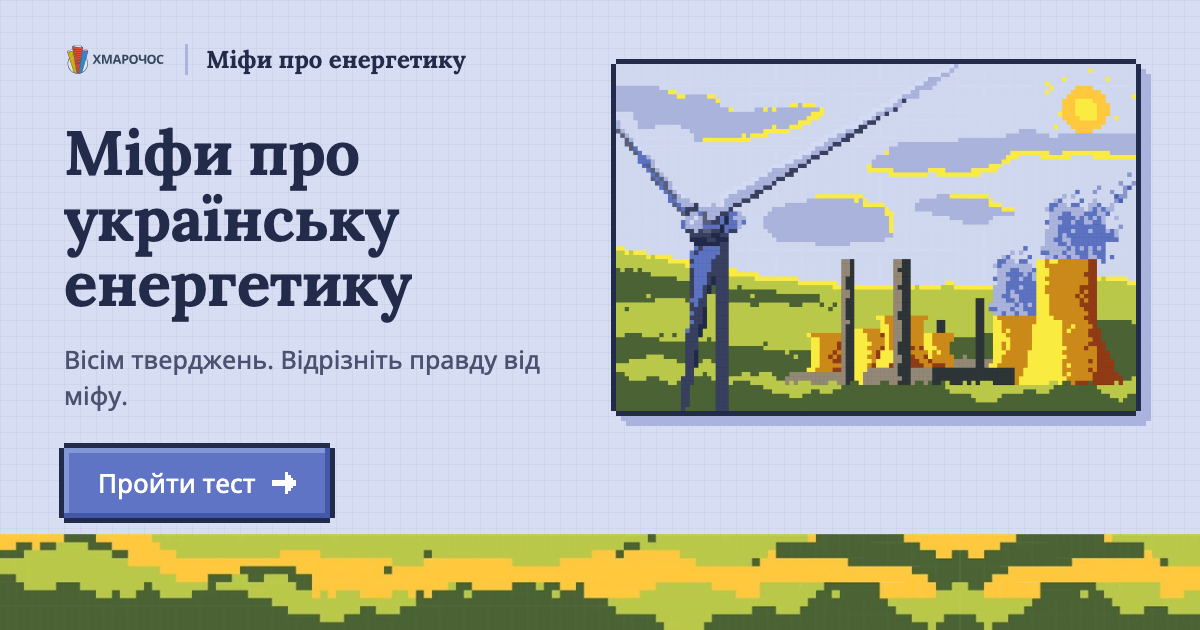
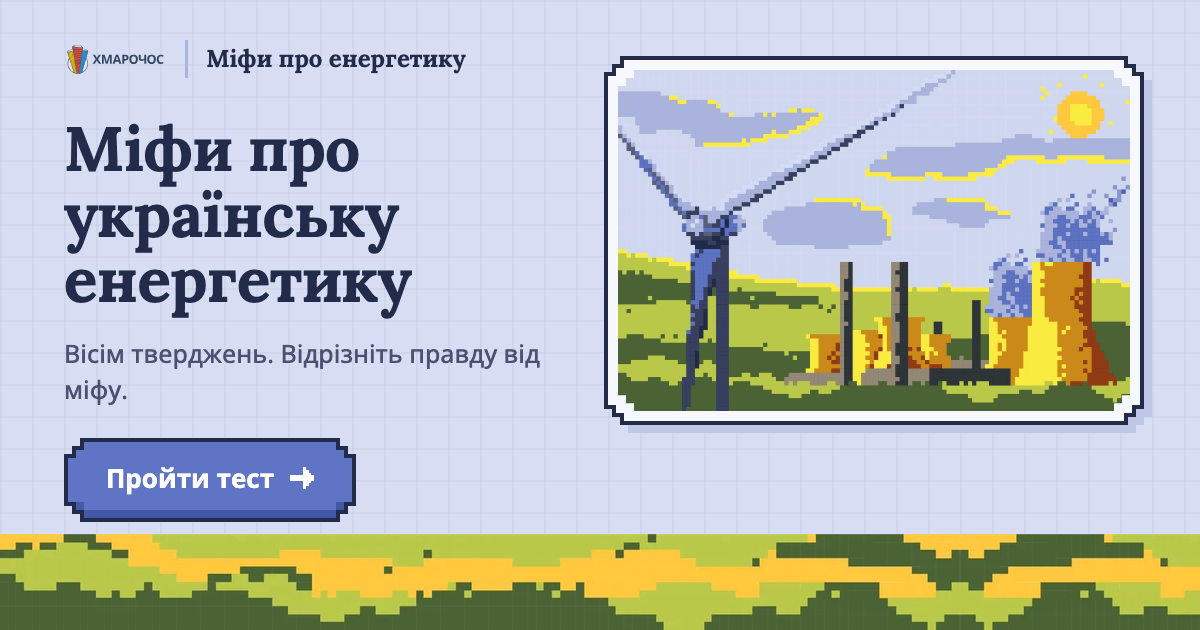
OG-картинки в новому піксельному стилі: рамки сайту, лампочка на шнурі; OG_VERSION 2

diff --git a/og-src/og.html b/og-src/og.html
@@ -5,89 +5,104 @@
 <title>OG</title>
 <!-- OG 1200×630 у стилі «Піксель». Рендерить scripts/render-og.mjs:
      og.html → public/og-test.png (назва ліворуч, обкладинка праворуч);
-     og.html?l=<slug> → public/og-<slug>.png (батарейка, бали й звання ліворуч, ілюстрація рівня праворуч). -->
+     og.html?l=<slug> → public/og-<slug>.png (картка з батарейкою, балами й званням, ілюстрація рівня праворуч).
+     Рамки, палітра й батарейка беруться прямо з pixel.css сайту, тож OG не розходиться з тестом.
+     Масштаб пікселя тут ×2: OG показують дрібно, сходинки мають читатися. -->
+<link rel="stylesheet" href="../app/skins/pixel/pixel.css">
 <style>
 @font-face { font-family: "Open Sans"; src: url("../public/fonts/hm/open-sans-v29-latin_cyrillic-ext-500.woff2") format("woff2"); font-weight: 500; }
+@font-face { font-family: "Open Sans"; src: url("../public/fonts/hm/open-sans-v29-latin_cyrillic-ext-700.woff2") format("woff2"); font-weight: 700; }
 @font-face { font-family: "Lora"; src: url("../public/fonts/hm/lora-v24-latin_cyrillic-ext-700.woff2") format("woff2"); font-weight: 700; }
-:root {
-  --sky: #d7ddf2; --cloud: #aab3dd; --blue: #5f74c4; --blue-d: #4458a8; --blue-l: #8396d6;
-  --navy: #232b4a; --slate: #3a3f5c; --card: #f7f8fd; --ink-2: #4b5170;
-  --yellow: #f8e840; --orange: #cc8619; --rust-l: #b5531f; --b: 5px;
-}
+@font-face { font-family: "Pixelify Sans"; src: url("../public/fonts/px/pixelify-cyrillic.woff2") format("woff2"); font-weight: 400 700; unicode-range: U+0400-045F, U+0490-0491; }
+@font-face { font-family: "Pixelify Sans"; src: url("../public/fonts/px/pixelify-latin.woff2") format("woff2"); font-weight: 400 700; unicode-range: U+0000-00FF, U+2013-2014; }
 * { box-sizing: border-box; }
-body {
-  margin: 0; width: 1200px; height: 630px; overflow: hidden; position: relative;
-  color: var(--navy); font-family: "Open Sans", sans-serif;
-  background-color: var(--sky);
-  background-image: linear-gradient(rgba(35,43,74,.04) 1px, transparent 1px), linear-gradient(90deg, rgba(35,43,74,.04) 1px, transparent 1px);
-  background-size: 16px 16px;
+body.pixel {
+  display: block; margin: 0; width: 1200px; height: 630px; min-height: 0; overflow: hidden; position: relative;
+  font-family: "Open Sans", sans-serif;
+  background-image: linear-gradient(rgba(35,43,74,.04) 2px, transparent 2px), linear-gradient(90deg, rgba(35,43,74,.04) 2px, transparent 2px);
+  background-size: 32px 32px;
 }
-.px { box-shadow: 0 calc(-1*var(--b)) 0 0 var(--navy), 0 var(--b) 0 0 var(--navy), calc(-1*var(--b)) 0 0 0 var(--navy), var(--b) 0 0 0 var(--navy); }
-.hills { position: absolute; left: 0; right: 0; bottom: 0; height: 96px; background: url("../public/art/hills-day.webp") repeat-x left bottom / auto 100%; }
-body.night .hills { background-image: url("../public/art/hills-night.webp"); }
-.head { position: absolute; left: 64px; top: 40px; display: flex; align-items: center; gap: 18px; }
-.head img { height: 38px; }
-.head b { padding-left: 18px; border-left: 3px solid var(--cloud); font-family: "Lora", serif; font-size: 24px; }
+/* картка: кадр ×2 і тінь на 8 px — як .panel на сайті */
+.og-card { position: relative; isolation: isolate; border: 20px solid transparent; }
+.og-card::before, .og-card::after { content: ""; position: absolute; inset: -20px; border: 20px solid transparent; pointer-events: none; }
+.og-card::before { z-index: -1; border-image: var(--fr-card) 10 fill / 20px; }
+.og-card::after { z-index: -2; transform: translate(8px, 8px); border-image: var(--fr-shade) 10 fill / 20px; }
+
+.og-hills { position: absolute; left: 0; right: 0; bottom: 0; height: 96px; background: url("../public/art/hills-day.webp") repeat-x left bottom / auto 100%; image-rendering: pixelated; }
+body.night .og-hills { background-image: url("../public/art/hills-night.webp"); }
+.og-head { position: absolute; left: 64px; top: 40px; display: flex; align-items: center; gap: 18px; }
+.og-head img { height: 38px; }
+.og-head b { padding-left: 18px; border-left: 3px solid var(--cloud); font-family: "Lora", serif; font-size: 24px; }
 
 /* старт */
-.start .text { position: absolute; left: 64px; top: 120px; width: 520px; }
+.og-start .og-text { position: absolute; left: 64px; top: 116px; width: 520px; }
 h1 { margin: 0; font-family: "Lora", serif; font-weight: 700; font-size: 62px; line-height: 1.06; letter-spacing: -0.01em; }
-.lead { margin: 24px 0 0; font-size: 25px; line-height: 1.45; color: var(--ink-2); }
-.btn { display: inline-flex; align-items: center; gap: 16px; margin-top: 34px; height: 70px; padding: 0 34px; font-weight: 500; font-size: 26px; color: #fff; background: var(--blue);
-  box-shadow: 0 calc(-1*var(--b)) 0 0 var(--navy), 0 var(--b) 0 0 var(--navy), calc(-1*var(--b)) 0 0 0 var(--navy), var(--b) 0 0 0 var(--navy), inset -5px -5px 0 0 var(--blue-d), inset 5px 5px 0 0 var(--blue-l); }
-.cover { position: absolute; right: 64px; top: 64px; width: 520px; filter: drop-shadow(10px 10px 0 var(--cloud)); }
-.cover img { display: block; width: 100%; aspect-ratio: 3 / 2; object-fit: cover; }
+.og-lead { margin: 22px 0 0; font-size: 25px; line-height: 1.45; color: var(--ink-2); }
+.og-go { display: inline-flex; align-items: center; gap: 16px; margin-top: 30px; height: 84px; padding: 0 22px 4px;
+  border: 20px solid transparent; border-image: var(--fr-blue) 10 fill / 20px; font-weight: 700; font-size: 26px; color: #fff; }
+.og-cover { position: absolute; right: 56px; top: 56px; width: 540px; }
+.og-cover .og-card { padding: 0; }
+.og-cover img { display: block; width: 100%; aspect-ratio: 3 / 2; object-fit: cover; margin: -6px; width: calc(100% + 12px);
+  clip-path: polygon(0 16px, 8px 16px, 8px 8px, 16px 8px, 16px 0, calc(100% - 16px) 0, calc(100% - 16px) 8px, calc(100% - 8px) 8px, calc(100% - 8px) 16px, 100% 16px,
+    100% calc(100% - 16px), calc(100% - 8px) calc(100% - 16px), calc(100% - 8px) calc(100% - 8px), calc(100% - 16px) calc(100% - 8px), calc(100% - 16px) 100%,
+    16px 100%, 16px calc(100% - 8px), 8px calc(100% - 8px), 8px calc(100% - 16px), 0 calc(100% - 16px)); }
 
 /* рівень */
-.lvl { display: none; }
-body.level .start { display: none; }
-body.level .lvl { display: block; }
-.lvl .text { position: absolute; left: 64px; top: 128px; width: 640px; }
-.kicker { margin: 0; font-size: 24px; color: var(--ink-2); }
-.charge { display: flex; align-items: center; gap: 26px; margin-top: 30px; }
-.battery { display: flex; align-items: center; }
-.cells { display: flex; gap: 6px; padding: 7px; background: var(--navy); }
-.cell { width: 30px; height: 56px; background: var(--slate); }
-.cell.ok { background: var(--yellow); }
-.nub { width: 10px; height: 24px; background: var(--navy); }
-.range { font-family: "Lora", serif; font-weight: 700; font-size: 40px; }
-.lvl h1 { margin-top: 30px; font-size: 64px; }
-.art { position: absolute; right: 70px; bottom: 120px; }
+.og-lvl { display: none; }
+body.level .og-start { display: none; }
+body.level .og-lvl { display: block; }
+.og-lvl .og-card { position: absolute; left: 56px; top: 110px; width: 680px; padding: 26px 30px 30px; }
+.og-kicker { margin: 0; font-size: 22px; font-weight: 500; color: var(--ink-2); }
+.og-charge { display: flex; align-items: center; gap: 24px; margin-top: 22px; }
+.og-lvl .cells { gap: 8px; padding: 8px; box-shadow: 0 0 0 4px var(--navy); }
+.og-lvl .cell { width: 28px; height: 56px; box-shadow: inset 0 0 0 4px var(--cloud); }
+.og-lvl .cell.ok { box-shadow: none; }
+.og-lvl .nub { width: 10px; height: 26px; margin-left: 4px; }
+.og-range { font-family: "Pixelify Sans", sans-serif; font-weight: 400; font-size: 50px; line-height: 1; white-space: nowrap; }
+.og-lvl h1 { margin-top: 22px; font-size: 60px; }
+.og-art { position: absolute; image-rendering: pixelated; }
+/* лампочка висить на шнурі з верхнього краю картинки — як на сайті */
+.og-hang { position: absolute; top: 0; right: 150px; width: 210px; padding-top: 96px; }
+.og-hang::before { content: ""; position: absolute; top: 0; left: 50%; width: 10px; height: 100px; transform: translateX(-50%); background: #232323; }
+.og-hang img { display: block; width: 100%; image-rendering: pixelated; }
 </style>
 </head>
-<body>
-  <div class="head"><img src="../public/hmarochos_logo_new.svg" alt=""><b>Міфи про енергетику</b></div>
+<body class="pixel">
+  <div class="og-head"><img src="../public/hmarochos_logo_new.svg" alt=""><b>Міфи про енергетику</b></div>
 
-  <div class="start">
-    <div class="text">
+  <div class="og-start">
+    <div class="og-text">
       <h1>Міфи про українську енергетику</h1>
-      <p class="lead">Вісім тверджень. Відрізніть правду від міфу.</p>
-      <div class="btn">Пройти тест
+      <p class="og-lead">Вісім тверджень. Відрізніть правду від міфу.</p>
+      <div class="og-go">Пройти тест
         <svg viewBox="0 0 9 8" width="24" height="22" shape-rendering="crispEdges"><path d="M5 0h1v1H5zM5 1h2v1H5zM5 2h3v1H5zM0 3h9v2H0zM5 5h3v1H5zM5 6h2v1H5zM5 7h1v1H5z" fill="currentColor"/></svg>
       </div>
     </div>
-    <div class="cover"><div class="px"><img src="../public/art/cover.webp" alt=""></div></div>
+    <div class="og-cover"><div class="og-card"><img src="../public/art/cover.webp" alt=""></div></div>
   </div>
 
-  <div class="lvl">
-    <div class="text">
-      <p class="kicker">Мій результат у тесті Хмарочоса</p>
-      <div class="charge">
+  <div class="og-lvl">
+    <div class="og-card">
+      <p class="og-kicker">Мій результат у тесті Хмарочоса</p>
+      <div class="og-charge">
         <div class="battery"><div class="cells" id="cells"></div><span class="nub"></span></div>
-        <span class="range" id="range"></span>
+        <span class="og-range" id="range"></span>
       </div>
       <h1 id="title"></h1>
     </div>
-    <img class="art" id="art" alt="">
+    <div id="art"></div>
   </div>
 
-  <div class="hills"></div>
+  <div class="og-hills"></div>
 
 <script>
   const LEVELS = {
-    hostage: { title: "Заручник інфопростору", range: "0–3 бали", max: 3, art: "candle", w: 150, night: true },
-    observer: { title: "Уважний спостерігач", range: "4–6 балів", max: 6, art: "bulb", w: 400 },
-    analyst: { title: "Енергетичний аналітик", range: "7–8 балів", max: 8, art: "battery", w: 440 },
+    hostage: { title: "Заручник інфопростору", range: "0–3 бали", max: 3, night: true,
+      art: '<img class="og-art" src="../public/art/candle.webp" style="width:150px;right:150px;bottom:118px" alt="">' },
+    observer: { title: "Уважний спостерігач", range: "4–6 балів", max: 6,
+      art: '<div class="og-hang"><img src="../public/art/bulb-lamp.webp" alt=""></div>' },
+    analyst: { title: "Енергетичний аналітик", range: "7–8 балів", max: 8,
+      art: '<img class="og-art" src="../public/art/battery.webp" style="width:360px;right:46px;bottom:150px" alt="">' },
   };
   const l = LEVELS[new URLSearchParams(location.search).get("l")];
   if (l) {
@@ -96,9 +111,7 @@ body.level .lvl { display: block; }
     document.getElementById("title").textContent = l.title;
     document.getElementById("range").textContent = l.range;
     document.getElementById("cells").innerHTML = Array.from({ length: 8 }, (_, i) => `<span class="cell${i < l.max ? " ok" : ""}"></span>`).join("");
-    const a = document.getElementById("art");
-    a.src = `../public/art/${l.art}.webp`;
-    a.style.width = l.w + "px";
+    document.getElementById("art").innerHTML = l.art;
   }
 </script>
 </body>

diff --git a/app/skins/pixel/PixelSkin.tsx b/app/skins/pixel/PixelSkin.tsx
@@ -579,7 +579,7 @@ export default function PixelSkin({ quiz }: { quiz: QuizApi }) {
   const { screen, level, history } = quiz;
   useKeys(quiz);
   useEffect(() => {
-    for (const a of ["bulb-lamp", "candle", "bulb", "battery", "hills-day", "hills-night"]) preload(asset(`/art/${a}.webp`));
+    for (const a of ["bulb-lamp", "candle", "battery", "hills-day", "hills-night"]) preload(asset(`/art/${a}.webp`));
   }, []);
 
   if (screen === "intro") {

diff --git a/app/share.ts b/app/share.ts
@@ -14,4 +14,4 @@ export function resultShareUrl(slug: string): string {
 }
 
 /** Версія OG-картинок: міняємо, коли картинки перемальовано, щоб соцмережі взяли нові. */
-export const OG_VERSION = "1";
+export const OG_VERSION = "2";
